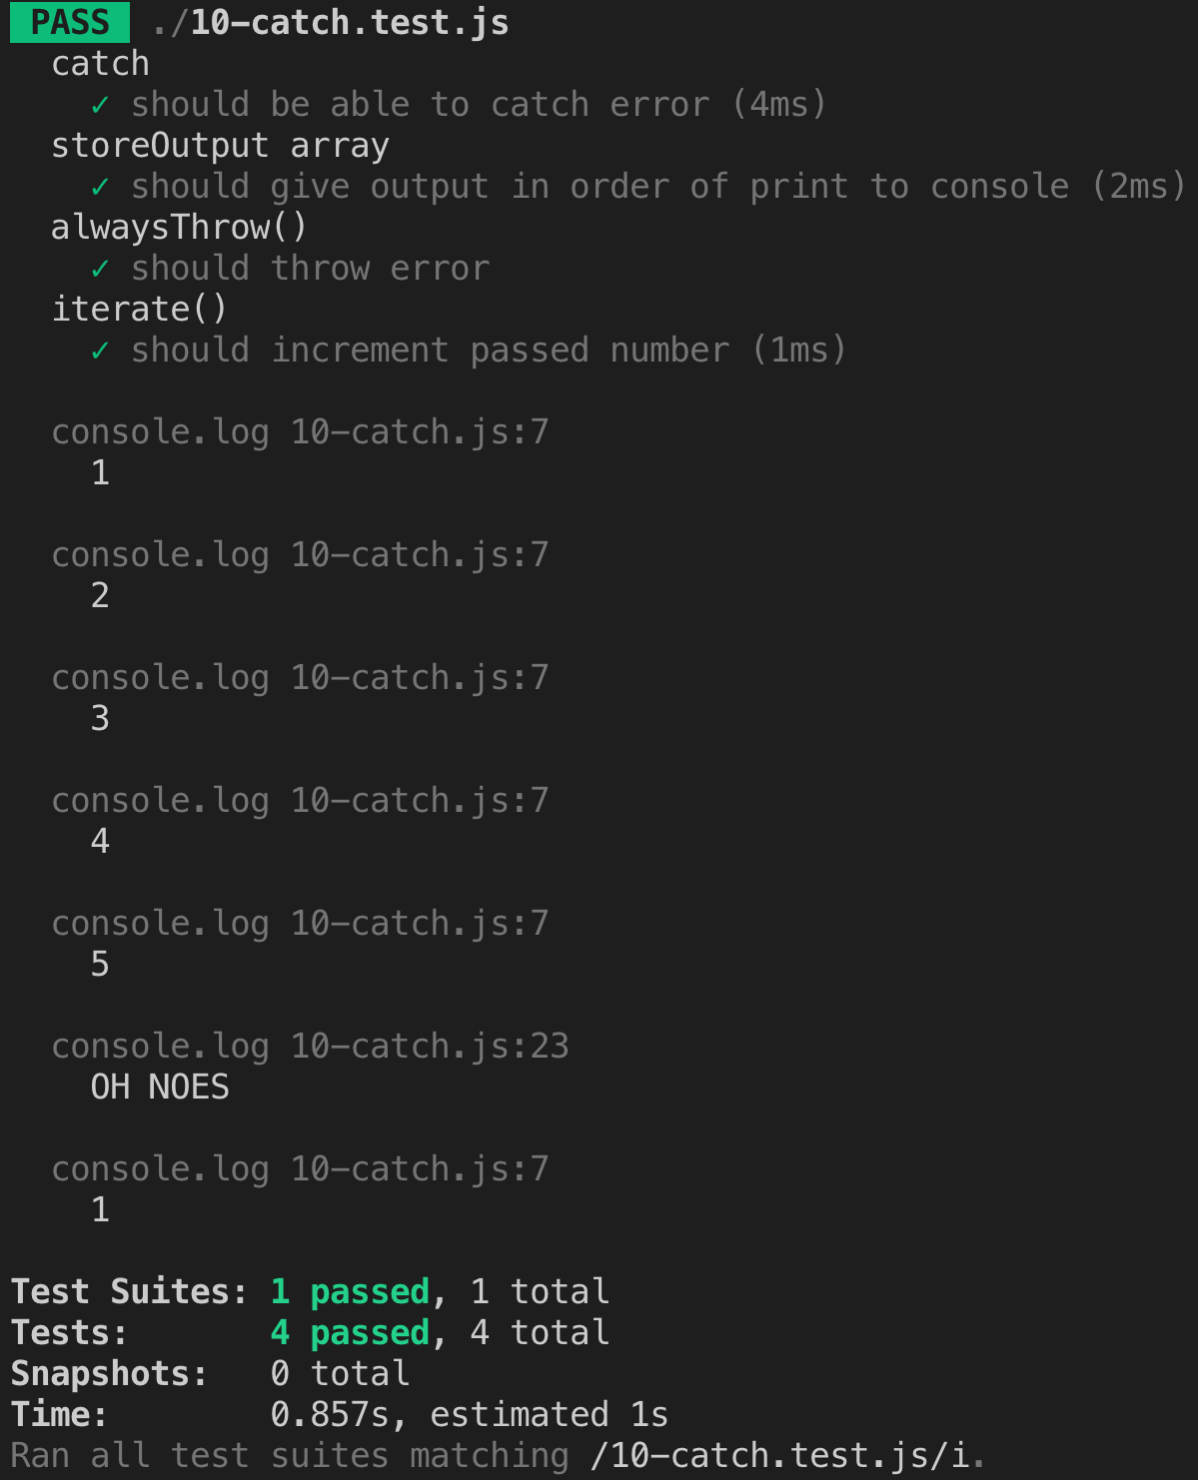
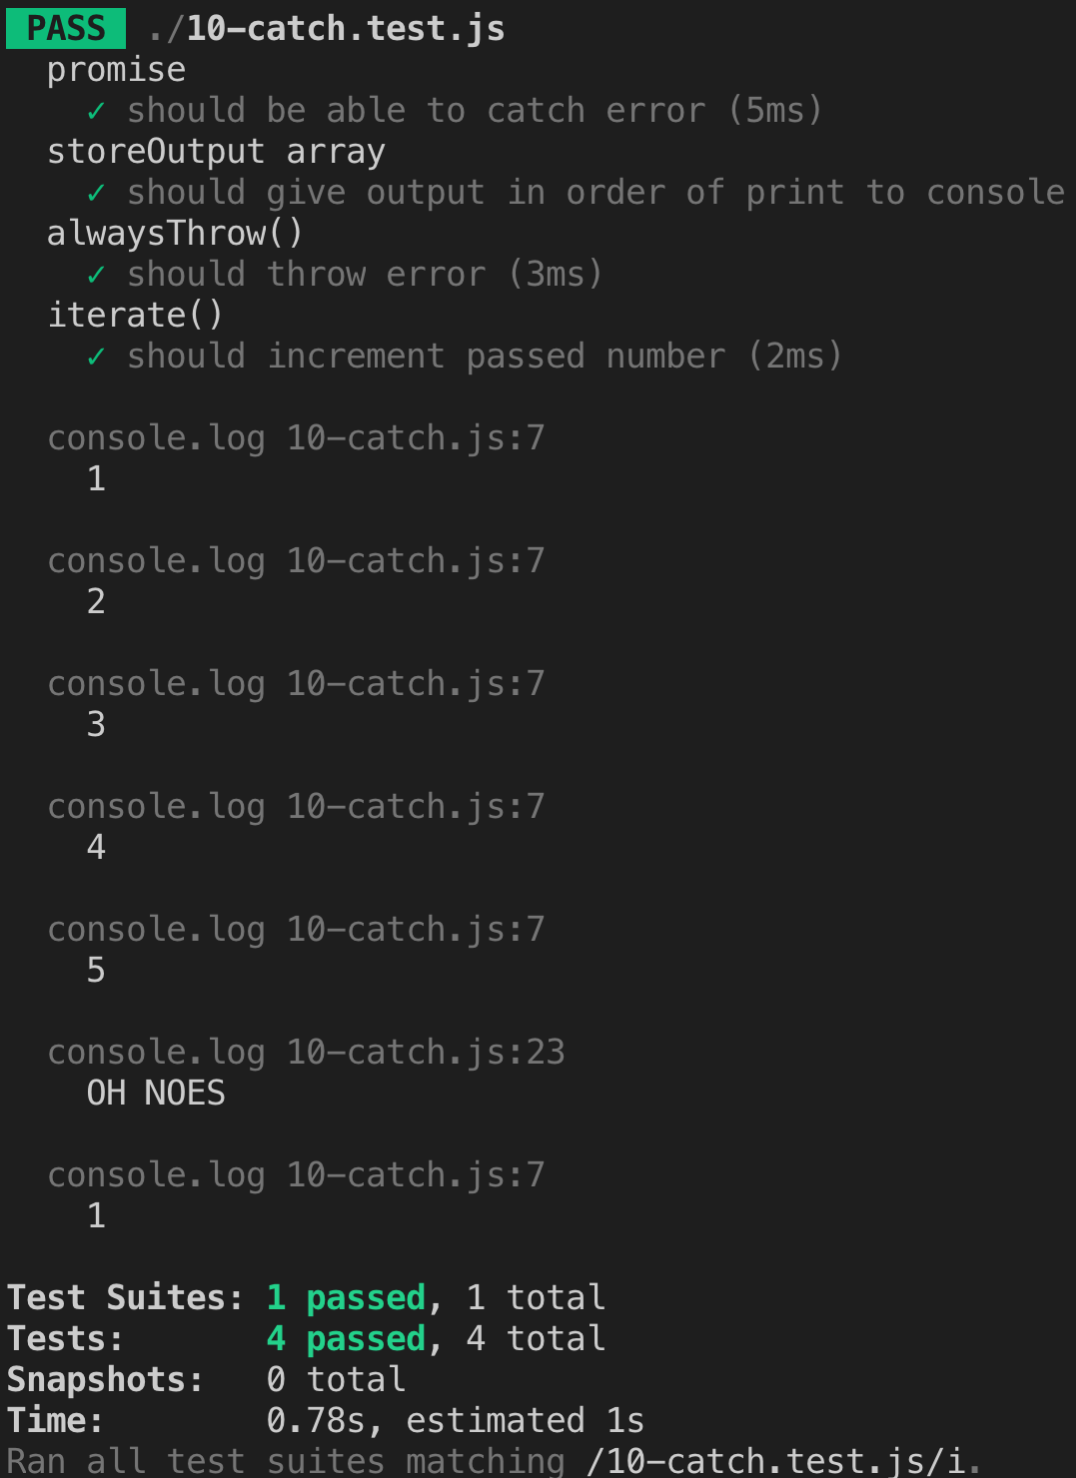
Minor change for catch

diff --git a/promise-shop/12-fetch-json.test.js b/promise-shop/12-fetch-json.test.js
@@ -1,12 +1,8 @@
 const fetchJson= require('./12-fetch-json');
-describe('catch', ()=> {
+describe('mainFunc()', ()=> {
     it('should be able to catch error in promise', () => {   
-        return fetchJson('http://localhost:12364').catch(errorPromise => {
-            return expect(errorPromise.error).toEqual('HTTP request failed with code 400')
-        });
+        return expect(fetchJson('http://localhost:1337')).resolves.toEqual('connect ECONNREFUSED 127.0.0.1:1337');
     });    
-});
-describe('mainFunc', ()=> {
     it('should be able to fetch and print JSON object from URL', () => {
             return expect(fetchJson('https://mdn.github.io/learning-area/javascript/oojs/json/superheroes.json')).resolves.toEqual({"active": true, "formed": 2016, "homeTown": "Metro City", "members": [{"age": 29, "name": "Molecule Man", "powers": ["Radiation resistance", "Turning tiny", "Radiation blast"], "secretIdentity": "Dan Jukes"}, {"age": 39, "name": "Madame Uppercut", "powers": ["Million tonne punch", "Damage resistance", "Superhuman reflexes"], "secretIdentity": "Jane Wilson"}, {"age": 1000000, "name": "Eternal Flame", "powers": ["Immortality", "Heat Immunity", "Inferno", "Teleportation", "Interdimensional travel"], "secretIdentity": "Unknown"}], "secretBase": "Super tower", "squadName": "Super hero squad"});
     });    

diff --git a/promise-shop/10-catch.test.js b/promise-shop/10-catch.test.js
@@ -1,11 +1,9 @@
 const catchTest= require('./10-catch');
-describe('catch', ()=> {
+describe('promise', ()=> {
     it('should be able to catch error', () => {
-        return catchTest.promise.catch(errorPromise => {
-            return expect(errorPromise).toEqual('OH NOES')
-        });
-    });    
-});
+        return expect(catchTest.promise).resolves.toEqual('OH NOES')
+    });
+});    
 describe('storeOutput array', ()=> {
     it('should give output in order of print to console', () => {
             return expect(catchTest.storeOutput).toEqual([1, 2, 3, 4, 5, 'OH NOES']);

diff --git a/promise-shop/10-catch.js b/promise-shop/10-catch.js
@@ -19,8 +19,9 @@ const promise= Promise.resolve(iterate(1))
                     .then(iterate)
                     .then(iterate)
                     .catch((promiseError)=> {
-                        storeOutput.push('OH NOES');
-                        console.log(promiseError.message)
+                        storeOutput.push(promiseError.message);
+                        console.log(promiseError.message);
+                        return promiseError.message;
                     });
 
 module.exports={alwaysThrows, iterate, promise, storeOutput}

diff --git a/promise-shop/12-fetch-json.js b/promise-shop/12-fetch-json.js
@@ -6,7 +6,10 @@ const mainFunc= (link) => {
                         console.log(jsonObj);
                         return jsonObj;
                     })
-                    .catch(promiseError=>console.log(promiseError.message));
+                    .catch((promiseError)=>{
+                        console.log(promiseError.message);
+                        return promiseError.message;
+                    });
 }
 const promise= mainFunc('http://localhost:1337')
 module.exports=mainFunc;

diff --git a/promise-shop/6-shortcuts.test.js b/promise-shop/6-shortcuts.test.js
@@ -8,9 +8,4 @@ describe('promiseRejected', () => {
     it('should get rejected with "REJECTED!"', () => {
         return expect(shortcuts.promiseRejected).rejects.toEqual('REJECTED!');
     });
-    it ('should get caught', () => {
-        return shortcuts.promiseRejected.catch(errorMessage => {
-            return expect(errorMessage).toEqual('REJECTED!')
-        });
-    });
 });
